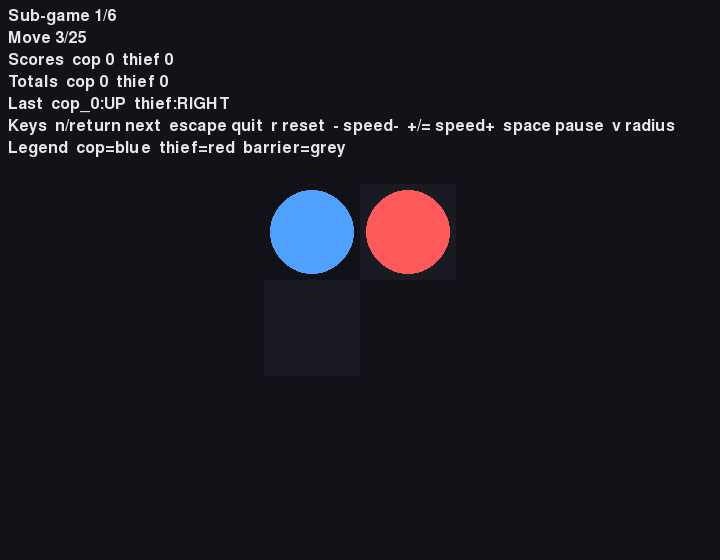
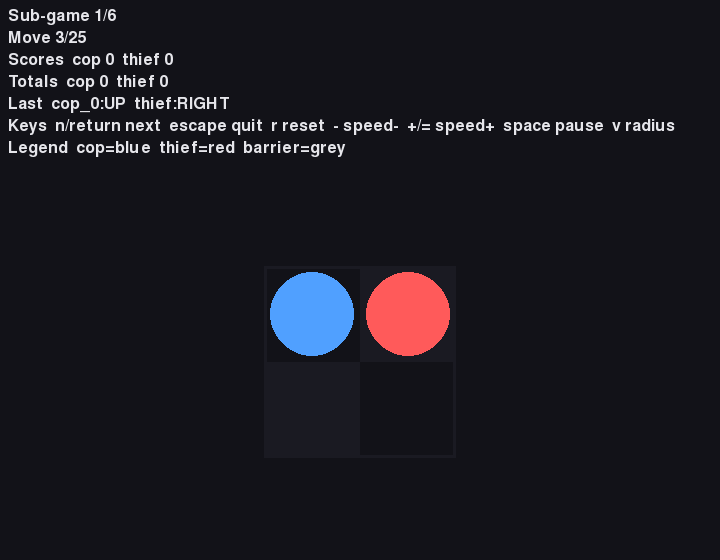
fix(goal-r4): reserve the HUD strip — board never renders under HUD text
Goal-loop round 4 critic caught a REAL round-3 regression: the taller HUD (7-8
lines) painted text straight over agent tokens on the 4x4/5x5 README-embedded
screenshots (GridView letterboxed in the FULL window; render_frame reserved
nothing; the old sampling test explicitly dodged the "HUD-free" zone). Fixed:

- GridView gains top_reserved: the board letterboxes strictly BELOW the strip.
- render_frame reserves hud_height(frame) — a new pure helper DERIVED from the
  actual HUD plan, so reservation can never drift from what gets drawn.
- draw_plan adds a board outline rect (fixes the 2x2 "3-cell L-shape" legibility).
- New regression guard: at the shipped 720x560, NO board op may start above the
  HUD strip (tallest-HUD frame, radius overlay on); the sampling test now uses
  the SAME reserved view render_frame uses.
- All 7 screenshots regenerated + visually re-verified (5x5: board fully below
  the HUD; 2x2: full board framed).
- Test count synced 537 -> 538 in README/QUALITY (the recurring class, same commit).

Gates: 538 tests / 99.38% / ruff / format / <=150 LOC green.

Changed region(s): [[0.3667, 0.3339, 0.6417, 0.6375]]

diff --git a/tests/unit/test_draw_plan.py b/tests/unit/test_draw_plan.py
@@ -8,7 +8,7 @@ rendering DECISIONS are correct without needing pygame.
 from __future__ import annotations
 
 from src.gui import palette
-from src.gui.draw_plan import build_board_plan, build_hud_plan
+from src.gui.draw_plan import build_board_plan, build_hud_plan, hud_height
 from src.gui.spectator import SpectatorFrame
 from src.gui.transform import GridView
 
@@ -79,6 +79,19 @@ def test_hud_plan_has_move_scores_and_winner():
     assert any("Last" in t for t in texts)
     assert any("WINNER: COP" in t for t in texts)
     assert all(op["kind"] == "text" for op in build_hud_plan(_frame()))
+
+
+def test_board_reserves_the_hud_strip_at_the_shipped_window_size():
+    """At the shipped 720x560 window NO board op renders under the HUD (round-4 regression guard).
+
+    The HUD is 7-8 text lines; the board must letterbox strictly BELOW hud_height(frame),
+    so text is never painted over cells or agent tokens (grid_4x4/5x5 screenshot defect).
+    """
+    frame = _frame(winner="cop")  # the tallest HUD (all optional lines present)
+    strip = hud_height(frame)
+    view = GridView(720, 560, 5, 5, top_reserved=strip)
+    board_ops = [op for op in build_board_plan(frame, view, show_radius=True) if "rect" in op]
+    assert min(op["rect"][1] for op in board_ops) >= strip
 
 
 def test_hud_help_line_is_derived_from_the_real_bindings():

diff --git a/src/gui/transform.py b/src/gui/transform.py
@@ -15,14 +15,20 @@ from src.gui.palette import CELL_PX_CAP
 class GridView:
     """Maps board cells to centered square pixel rects within a window."""
 
-    def __init__(self, window_w: int, window_h: int, cols: int, rows: int) -> None:
-        """Compute the square cell size + the letterbox origin for this window/board."""
+    def __init__(self, window_w: int, window_h: int, cols: int, rows: int, top_reserved: int = 0) -> None:
+        """Compute the square cell size + the letterbox origin for this window/board.
+
+        ``top_reserved`` excludes a top strip (the HUD) from the letterbox area, so the
+        board never renders under the HUD text (it centers in the remaining space).
+        """
         self._cols = int(cols)
         self._rows = int(rows)
-        usable = min(window_w / max(1, self._cols), window_h / max(1, self._rows))
+        top = max(0, int(top_reserved))
+        board_h = max(1, window_h - top)
+        usable = min(window_w / max(1, self._cols), board_h / max(1, self._rows))
         self._cell = max(1, int(min(CELL_PX_CAP, usable)))
         self._x0 = (window_w - self._cell * self._cols) // 2
-        self._y0 = (window_h - self._cell * self._rows) // 2
+        self._y0 = top + (board_h - self._cell * self._rows) // 2
 
     @property
     def cell_px(self) -> int:

diff --git a/src/gui/draw_plan.py b/src/gui/draw_plan.py
@@ -52,6 +52,9 @@ def build_board_plan(frame: SpectatorFrame, view: GridView, show_radius: bool = 
         for c in range(cols)
         if (r + c) % 2
     ]
+    x0, y0 = view.cell_rect(0, 0)[:2]
+    board = (x0, y0, view.cell_px * cols, view.cell_px * rows)
+    ops.append({"kind": "rect", "rect": board, "color": palette.CHECKER})  # board outline (2x2 legibility)
     ops += [
         {"kind": "fill", "rect": view.cell_rect(bc, br), "color": palette.BARRIER}
         for br, bc in frame.barriers
@@ -71,6 +74,15 @@ def build_board_plan(frame: SpectatorFrame, view: GridView, show_radius: bool = 
         cr, cc = frame.cop_positions[0]
         ops.append({"kind": "rect", "rect": view.cell_rect(cc, cr), "color": palette.CAPTURE_FLASH})
     return ops
+
+
+def hud_height(frame: SpectatorFrame) -> int:
+    """Pixel height of the HUD strip for ``frame`` — the board's ``top_reserved`` value.
+
+    Derived from the actual HUD plan so board reservation can never drift from what
+    :func:`build_hud_plan` draws (the round-4 audit found text painted over tokens).
+    """
+    return 8 + len(build_hud_plan(frame)) * (palette.FONT_PX + 4) + 2
 
 
 def build_hud_plan(frame: SpectatorFrame) -> list[dict]:

diff --git a/src/gui/render.py b/src/gui/render.py
@@ -16,7 +16,7 @@ except ImportError:  # pragma: no cover - pygame optional
     pygame = None
 
 from src.gui import palette
-from src.gui.draw_plan import build_board_plan, build_hud_plan
+from src.gui.draw_plan import build_board_plan, build_hud_plan, hud_height
 from src.gui.input_map import command_for
 from src.gui.transform import GridView
 
@@ -42,9 +42,9 @@ def execute_plan(surface, font, plan) -> None:
 
 
 def render_frame(surface, font, frame, show_radius=False) -> None:
-    """Render one SpectatorFrame (board + HUD) to ``surface``."""
+    """Render one SpectatorFrame to ``surface`` — the board letterboxed BELOW the HUD strip."""
     rows, cols = frame.grid
-    view = GridView(surface.get_width(), surface.get_height(), cols, rows)
+    view = GridView(surface.get_width(), surface.get_height(), cols, rows, top_reserved=hud_height(frame))
     execute_plan(surface, font, build_board_plan(frame, view, show_radius))
     execute_plan(surface, font, build_hud_plan(frame))
 

diff --git a/tests/integration/test_gui_render.py b/tests/integration/test_gui_render.py
@@ -11,6 +11,7 @@ import pygame
 import pytest
 
 from src.gui import palette, render
+from src.gui.draw_plan import hud_height
 from src.gui.spectator import SpectatorFrame
 from src.gui.transform import GridView
 
@@ -68,11 +69,12 @@ def test_execute_plan_handles_all_op_kinds():
 
 
 def test_render_frame_draws_cop_and_thief_on_their_cells():
-    """The cop + thief tokens render in their (HUD-free) cell centres."""
+    """The cop + thief tokens render in their cell centres (board reserved BELOW the HUD)."""
     surface = pygame.Surface((400, 400))
     font = pygame.font.SysFont(None, 18)
-    render.render_frame(surface, font, _frame())
-    view = GridView(400, 400, 5, 5)
+    frame = _frame()
+    render.render_frame(surface, font, frame)
+    view = GridView(400, 400, 5, 5, top_reserved=hud_height(frame))  # the SAME view render_frame uses
     assert surface.get_at(_center(view, 4, 4))[:3] == palette.COP
     assert surface.get_at(_center(view, 2, 2))[:3] == palette.THIEF
 

diff --git a/README.md b/README.md
@@ -9,7 +9,7 @@ end-of-game **Gmail** report.
 
 > **Status: COMPLETE (v1.1.0).** All phases P0→P11 are implemented — plus a tabular Minimax-Q
 > equilibrium baseline (the L11 §5 self-challenge bonus; see §7.2 + ANALYSIS §10) — tested
-> (537 tests, ~99.4% coverage, ruff clean, CI green), and the §7 analysis below is fully authored
+> (538 tests, ~99.4% coverage, ruff clean, CI green), and the §7 analysis below is fully authored
 > from a real training run. This README is the submission report (brief §7). Design docs:
 > [`docs/PRD.md`](docs/PRD.md), [`docs/PLAN.md`](docs/PLAN.md), [`docs/TODO.md`](docs/TODO.md).
 
@@ -18,7 +18,7 @@ end-of-game **Gmail** report.
 ```bash
 uv sync --extra gui --group dev --group mcp   # uv-only (no pip/conda) — the SAME line CI runs;
                                               #   add --group mail only for the live report send
-uv run pytest tests/ --cov=src   # quality gates (537 tests, ≥85% coverage)
+uv run pytest tests/ --cov=src   # quality gates (538 tests, ≥85% coverage)
 uv run ruff check src/ tests/ scripts/
 uv run ruff format --check src/ tests/ scripts/
 uv run python scripts/check_file_sizes.py   # every .py ≤150 LOC

diff --git a/docs/QUALITY.md b/docs/QUALITY.md
@@ -5,7 +5,7 @@ characteristics, with a concrete A6 artifact for each (no prose-only claims).
 
 ## Functional Suitability
 The system trains CTDE QMIX/VDN/IQL pursuit policies and plays a 6-sub-game match over a
-dual-MCP contract, emailing the §3.5 report. Evidence: 537 tests (happy + error paths)
+dual-MCP contract, emailing the §3.5 report. Evidence: 538 tests (happy + error paths)
 at ≥85% coverage; the §3.5 report passes `report.schema.json` + the derived-totals
 invariants (`src/reporting/schema.py::validate`); F5 reports the IQL/VDN/QMIX comparison —
 VDN most consistent, QMIX least stable at the 50-round budget (reported faithfully, not idealized).
